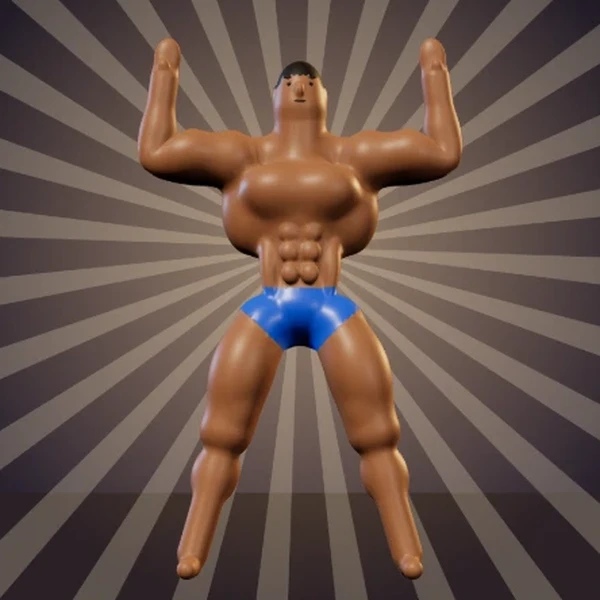
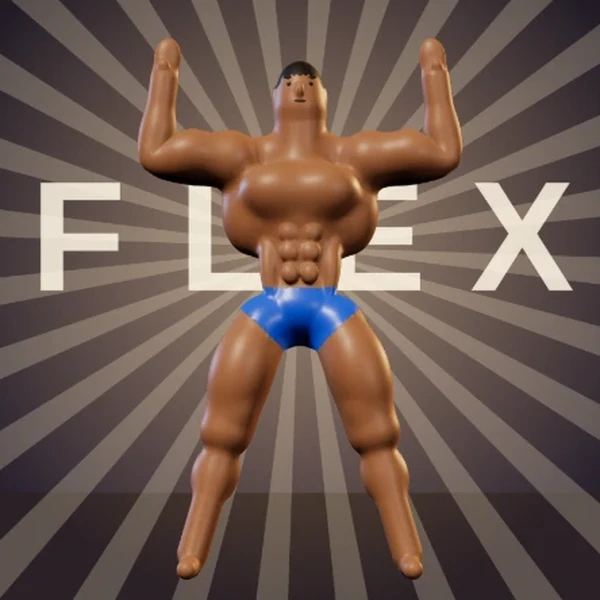
肉体ピング: サムネの後ろに FLEX の文字
Claude-Session: https://claude.ai/code/session_01SCp8TuTogTDQLjmjv4sZKs

diff --git a/shisaku-i87mixcr/index.html b/shisaku-i87mixcr/index.html
@@ -3,7 +3,7 @@
 <head>
 <meta charset="UTF-8">
 <meta name="robots" content="noindex,nofollow">
-<meta name="preview-version" content="nikutai-1793749074529">
+<meta name="preview-version" content="nikutai-1793749399275">
 <meta name="viewport" content="width=device-width, initial-scale=1, maximum-scale=1, user-scalable=no">
 <title>【プレビュー】肉体ピング</title>
 <style>
@@ -32,20 +32,20 @@
   <button id="start" type="button">START</button>
   <button id="share-button" type="button" aria-label="Xでシェア" hidden></button>
 </div></div>
-<script src="../games/start.js?v=nikutai-1793749074529"></script>
-<script src="../games/view.js?v=nikutai-1793749074529"></script>
-<script src="../games/audio.js?v=nikutai-1793749074529"></script>
-<script src="../games/lang.js?v=nikutai-1793749074529"></script>   <!-- 日本語以外のブラウザでは英語 -->
-<script src="../games/share.js?v=nikutai-1793749074529"></script>
-<script src="../games/result-actions.js?v=nikutai-1793749074529"></script>
-<script src="../games/action-icons.js?v=nikutai-1793749074529"></script>
-<script src="../games/celebrate.js?v=nikutai-1793749074529"></script>
-<script src="../games/pad.js?v=nikutai-1793749074529"></script>   <!-- ジョイパッドと、絵の外のタップ -->
-<script src="../games/random-bowling/vendor/three.min.js?v=nikutai-1793749074529"></script>
-<script src="../games/three-base.js?v=nikutai-1793749074529"></script>
-<script src="gltf-loader.js?v=nikutai-1793749074529"></script>
-<script src="macho-glb.js?v=nikutai-1793749074529"></script>
-<script src="scene3d.js?v=nikutai-1793749074529"></script>
+<script src="../games/start.js?v=nikutai-1793749399275"></script>
+<script src="../games/view.js?v=nikutai-1793749399275"></script>
+<script src="../games/audio.js?v=nikutai-1793749399275"></script>
+<script src="../games/lang.js?v=nikutai-1793749399275"></script>   <!-- 日本語以外のブラウザでは英語 -->
+<script src="../games/share.js?v=nikutai-1793749399275"></script>
+<script src="../games/result-actions.js?v=nikutai-1793749399275"></script>
+<script src="../games/action-icons.js?v=nikutai-1793749399275"></script>
+<script src="../games/celebrate.js?v=nikutai-1793749399275"></script>
+<script src="../games/pad.js?v=nikutai-1793749399275"></script>   <!-- ジョイパッドと、絵の外のタップ -->
+<script src="../games/random-bowling/vendor/three.min.js?v=nikutai-1793749399275"></script>
+<script src="../games/three-base.js?v=nikutai-1793749399275"></script>
+<script src="gltf-loader.js?v=nikutai-1793749399275"></script>
+<script src="macho-glb.js?v=nikutai-1793749399275"></script>
+<script src="scene3d.js?v=nikutai-1793749399275"></script>
 <script>
 /* 肉体ピング
 
@@ -629,9 +629,9 @@
         s3.sync({ j: joints(cur, br), cam: camFor(), flex: flex, tilt: 0 });
         ctx.save(); ctx.beginPath(); ctx.rect(0, 0, W, SH); ctx.clip();
         /* そろったあとの一連のポーズ：マッチョの後ろに大きく文字を並べていく */
-        if (state === S.PLAY && wordDone > 0 && wi < NW) {
-          var ww = words[wi], pi2 = playIdx(), shown2 = pi2 < 0 ? ww.length : pi2 + 1;
-          var fs2 = Math.min(SH * 0.5, (W - 16) / ww.length), x02 = W / 2 - fs2 * ww.length / 2;
+        if ((state === S.PLAY && wordDone > 0 && wi < NW) || thumbFx) {
+          var ww = thumbFx ? "FLEX" : words[wi], pi2 = thumbFx ? -1 : playIdx(), shown2 = pi2 < 0 ? ww.length : pi2 + 1;
+          var fs2 = Math.min(SH * 0.5, ((thumbFx ? W * 0.76 : W) - 16) / ww.length), x02 = W / 2 - fs2 * ww.length / 2;
           ctx.textAlign = "center"; ctx.textBaseline = "middle"; ctx.lineJoin = "round";
           for (var li = 0; li < shown2; li++) {
             var big = li === pi2 ? 1 + impact * 0.25 : 1;
@@ -741,11 +741,11 @@
 /* 制作中の固定リンクでは、F9の録画パネルを使えるようにする */
 if (document.head && !/[?&]recorder-cli=1(?:&|$)/.test(location.search)) {
   var recorderScript = document.createElement("script");
-  recorderScript.src = /^(localhost|127\.0\.0\.1)$/.test(location.hostname) ? "../games/_tools/recorder-ui.js?v=nikutai-1793749074529" : "./recorder-ui.js?v=nikutai-1793749074529";
+  recorderScript.src = /^(localhost|127\.0\.0\.1)$/.test(location.hostname) ? "../games/_tools/recorder-ui.js?v=nikutai-1793749399275" : "./recorder-ui.js?v=nikutai-1793749399275";
   document.head.appendChild(recorderScript);
 }
 </script>
-<script src="./auto-reload.js?v=nikutai-1793749074529"></script>
-<script src="./preview-header.js?v=nikutai-1793749074529"></script>
+<script src="./auto-reload.js?v=nikutai-1793749399275"></script>
+<script src="./preview-header.js?v=nikutai-1793749399275"></script>
 </body>
 </html>

diff --git a/games/nikutai/index.html b/games/nikutai/index.html
@@ -633,9 +633,9 @@
         s3.sync({ j: joints(cur, br), cam: camFor(), flex: flex, tilt: 0 });
         ctx.save(); ctx.beginPath(); ctx.rect(0, 0, W, SH); ctx.clip();
         /* そろったあとの一連のポーズ：マッチョの後ろに大きく文字を並べていく */
-        if (state === S.PLAY && wordDone > 0 && wi < NW) {
-          var ww = words[wi], pi2 = playIdx(), shown2 = pi2 < 0 ? ww.length : pi2 + 1;
-          var fs2 = Math.min(SH * 0.5, (W - 16) / ww.length), x02 = W / 2 - fs2 * ww.length / 2;
+        if ((state === S.PLAY && wordDone > 0 && wi < NW) || thumbFx) {
+          var ww = thumbFx ? "FLEX" : words[wi], pi2 = thumbFx ? -1 : playIdx(), shown2 = pi2 < 0 ? ww.length : pi2 + 1;
+          var fs2 = Math.min(SH * 0.5, ((thumbFx ? W * 0.76 : W) - 16) / ww.length), x02 = W / 2 - fs2 * ww.length / 2;
           ctx.textAlign = "center"; ctx.textBaseline = "middle"; ctx.lineJoin = "round";
           for (var li = 0; li < shown2; li++) {
             var big = li === pi2 ? 1 + impact * 0.25 : 1;
